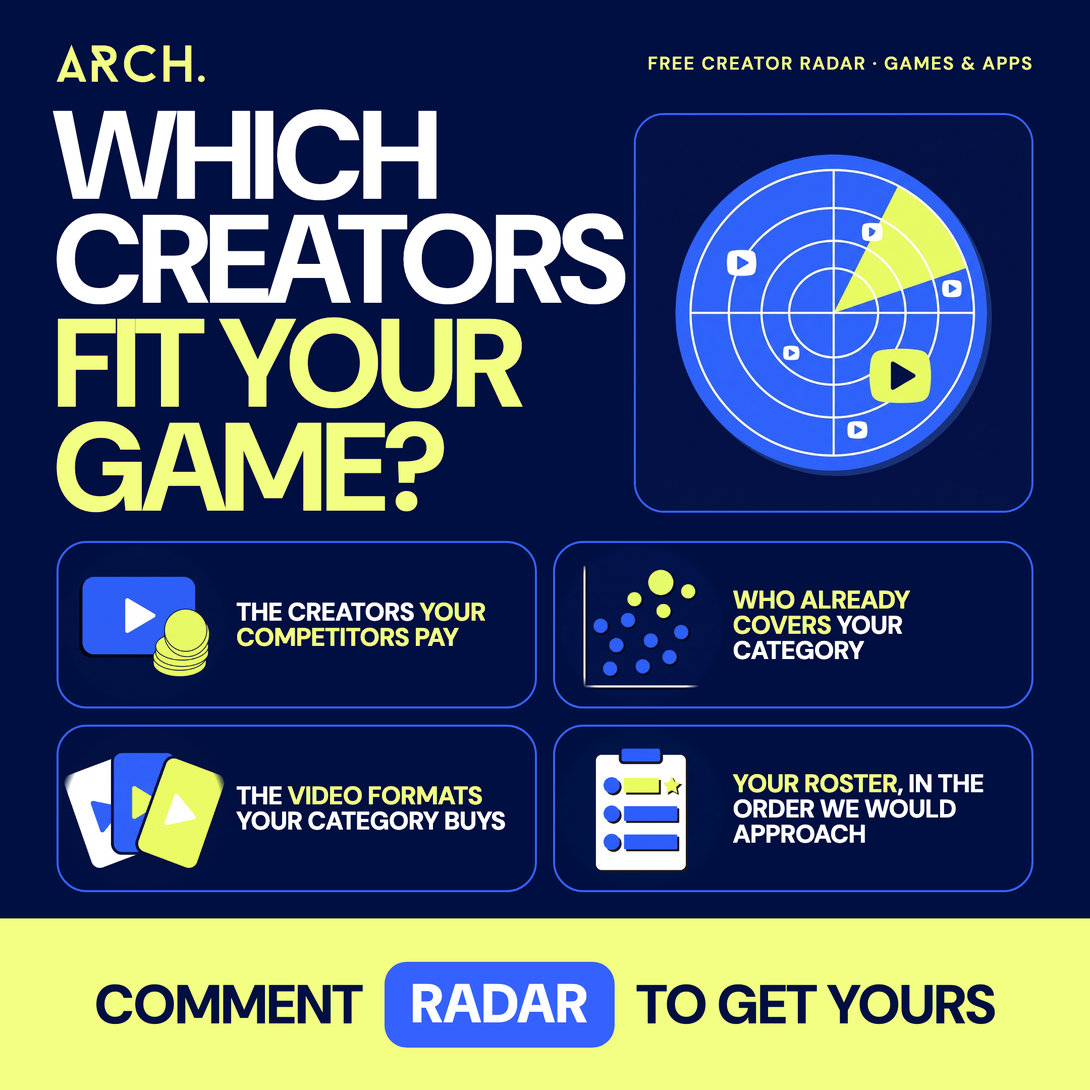
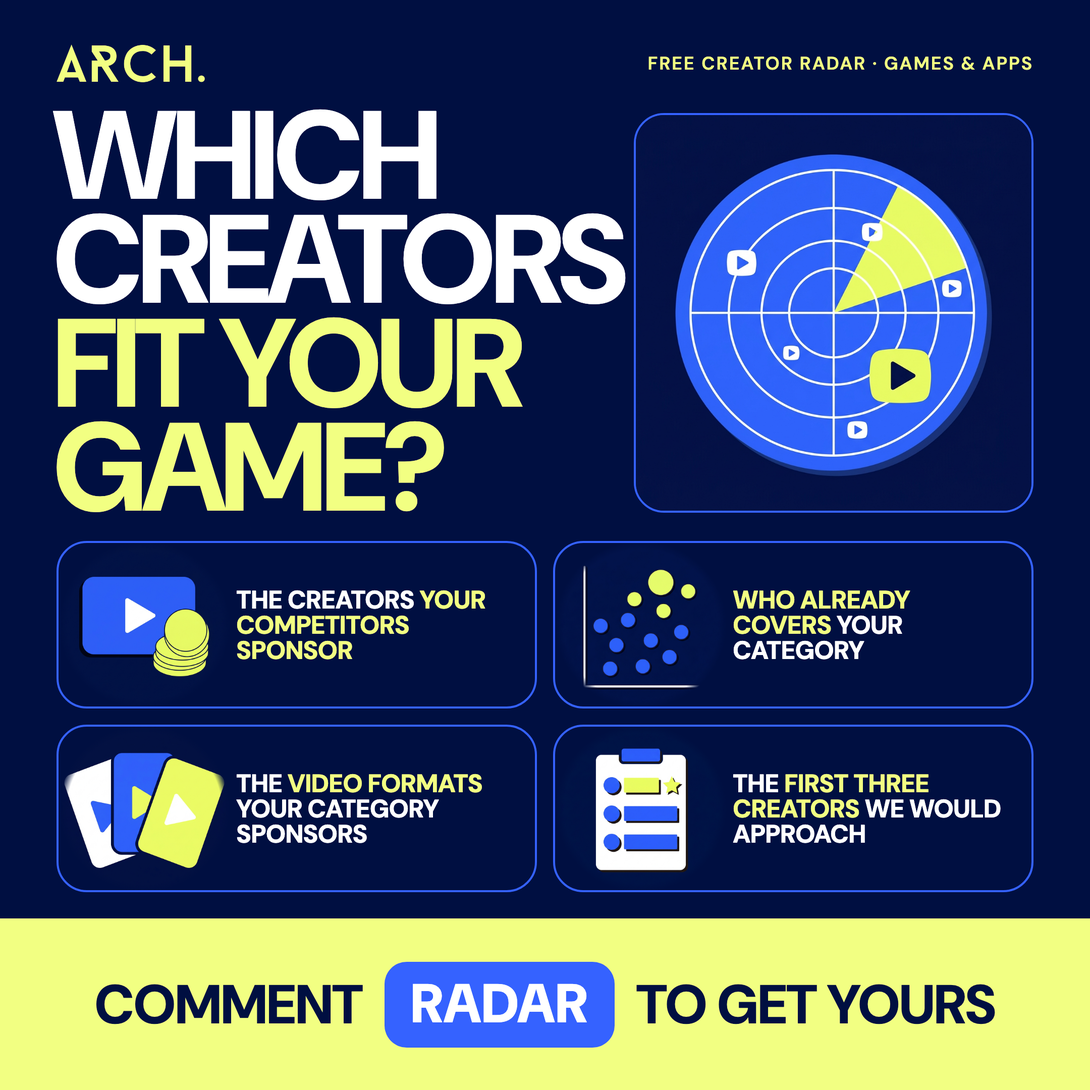
Creator Radar + Deal Check: match promises to what the reports deliver
Radar: 'sponsor' wording, disclosed-sponsorships-only note, sections match both report lanes, first three creators with the full roster on a call, sent by ARCH within about a week, no weekly number.
Deal Check: headline 'What does this fee have to earn?', attributed-installs framing, neutral default example, currency picker on the top check, Germany example, Gamesight link removed, phone-friendly anatomy list, header matches Radar. Covers re-rendered with the same claims.

Changed region(s): [[0.2171, 0.5273, 0.4653, 0.6204], [0.2171, 0.7134, 0.4653, 0.7755], [0.6514, 0.7134, 0.9306, 0.7755]]

diff --git a/creator-quote-check/index.html b/creator-quote-check/index.html
@@ -1,9 +1,9 @@
 <!doctype html>
-<html lang="en"><head><meta charset="utf-8"><meta name="viewport" content="width=device-width,initial-scale=1"><meta name="description" content="Check a creator fee or a planned budget against your target CPI. See the installs it has to bring, the most the booking can cost, and the questions to send back before you sign."><title>Creator Deal Check | ARCH.</title><meta property="og:title" content="Creator Deal Check: is this creator worth the fee? | ARCH."><meta property="og:description" content="A free fee check and quote worksheet for game and app teams with a UA budget."><meta property="og:type" content="website"><meta property="og:url" content="https://madebyarch.com/creator-quote-check/"><meta property="og:image" content="https://madebyarch.com/creator-quote-check/assets/cover-dealcheck-cpi.png"><link rel="stylesheet" href="style.css"></head>
+<html lang="en"><head><meta charset="utf-8"><meta name="viewport" content="width=device-width,initial-scale=1"><meta name="description" content="Check a creator fee or a planned budget against your target CPI. See the attributed installs it has to bring, the most you can pay and still hit your target, and the questions to send back before you sign."><title>Creator Deal Check | ARCH.</title><meta property="og:title" content="Creator Deal Check: what does this fee have to earn? | ARCH."><meta property="og:description" content="A free fee check and quote worksheet for game and app teams with a UA budget."><meta property="og:type" content="website"><meta property="og:url" content="https://madebyarch.com/creator-quote-check/"><meta property="og:image" content="https://madebyarch.com/creator-quote-check/assets/cover-dealcheck-cpi.png"><link rel="stylesheet" href="style.css"></head>
 <body><header class="mast"><a href="https://arch.agency/" aria-label="ARCH homepage"><img src="assets/arch-yellow.svg" width="110" height="30" alt="ARCH."></a><span>FOR GAME &amp; APP MARKETING TEAMS</span><a href="https://madebyarch.com/book/">Talk to ARCH ↗</a></header>
 <main>
-<section class="hero"><div><p class="eyebrow">BEFORE YOU BOOK THE CREATORS · FREE DEAL CHECK</p><h1>IS THIS<br>CREATOR<br><em>WORTH THE<br>FEE?</em></h1><p class="intro">Put in a creator fee, or the budget you have in mind, and your target CPI. See the installs it has to bring, and the most the booking can cost.</p><div class="hero-actions"><a class="button" href="#check">CHECK A FEE ↓</a><a class="secondary" href="#questions">12 QUESTIONS TO SEND BACK</a></div><ol class="contents" aria-label="What is on this page"><li><a href="#anatomy"><b>01</b> What a creator quote is made of</a></li><li><a href="#example"><b>02</b> One example, line by line</a></li><li><a href="#howto"><b>03</b> How to use the worksheet</a></li><li><a href="#worksheet"><b>04</b> The worksheet</a></li><li><a href="#questions"><b>05</b> Questions to send back</a></li><li><a href="#glossary"><b>06</b> Glossary</a></li></ol></div>
-<aside class="check" id="check" aria-labelledby="check-title"><p class="eyebrow" id="check-title">CREATOR DEAL CHECK</p><div class="check-fields"><label>Creator fee or budget<input id="chk-fee" type="number" min="0" max="1000000000" step="0.01" inputmode="decimal" value="5000"><small class="help">A quote you have, or what you plan to spend.</small></label><label>Your target CPI<input id="chk-cpi" type="number" min="0.01" max="1000000" step="0.01" inputmode="decimal" value="4"><small class="help">What one install is allowed to cost you.</small></label><label class="wide">Installs you expect from this creator <span class="opt">optional</span><input id="chk-installs" type="number" min="0" max="1000000000" step="1" inputmode="numeric" value="900"><small class="help">From your past campaigns or the supplier&#39;s evidence. Leave blank if you have none.</small></label></div><div class="check-result" id="chk-result" aria-live="polite"></div><button type="button" class="secondary" id="to-worksheet">Put the full quote through the worksheet ↓</button><small class="fine">Example numbers, replace them with yours. This works from your own target. It does not predict what a creator will deliver. Nothing you enter leaves this tab.</small></aside></section>
+<section class="hero"><div><p class="eyebrow">BEFORE YOU BOOK THE CREATORS · FREE DEAL CHECK</p><h1>WHAT DOES<br>THIS FEE<br><em>HAVE TO<br>EARN?</em></h1><p class="intro">Put in a creator fee, or the budget you have in mind, and your target CPI. See the attributed installs it has to bring, and the most you can pay and still hit your target.</p><div class="hero-actions"><a class="button" href="#check">CHECK A FEE ↓</a><a class="secondary" href="#questions">12 QUESTIONS TO SEND BACK</a></div><ol class="contents" aria-label="What is on this page"><li><a href="#anatomy"><b>01</b> What a creator quote is made of</a></li><li><a href="#example"><b>02</b> One example, line by line</a></li><li><a href="#howto"><b>03</b> How to use the worksheet</a></li><li><a href="#worksheet"><b>04</b> The worksheet</a></li><li><a href="#questions"><b>05</b> Questions to send back</a></li><li><a href="#glossary"><b>06</b> Glossary</a></li></ol></div>
+<aside class="check" id="check" aria-labelledby="check-title"><p class="eyebrow" id="check-title">CREATOR DEAL CHECK</p><div class="check-fields"><label>Creator fee or budget<input id="chk-fee" type="number" min="0" max="1000000000" step="0.01" inputmode="decimal" value="4000"><small class="help">A quote you have, or what you plan to spend.</small></label><label>Your target CPI<input id="chk-cpi" type="number" min="0.01" max="1000000" step="0.01" inputmode="decimal" value="4"><small class="help">What one install is allowed to cost you.</small></label><label>Installs you expect from this creator <span class="opt">optional</span><input id="chk-installs" type="number" min="0" max="1000000000" step="1" inputmode="numeric" value="1000"><small class="help">From your past campaigns or the supplier&#39;s evidence. Leave blank if you have none.</small></label><label>Currency<select id="chk-currency"><option value="EUR">EUR (€)</option><option value="USD">USD ($)</option><option value="GBP">GBP (£)</option></select></label></div><div class="check-result" id="chk-result" aria-live="polite"></div><button type="button" class="secondary" id="to-worksheet">Put the full quote through the worksheet ↓</button><small class="fine">Example numbers, replace them with yours. Many creator installs never get attributed: people watch the video, then find the game in the store themselves. Read the result as the attributed floor. It does not predict what a creator will deliver. Nothing you enter leaves this tab.</small></aside></section>
 
 <section id="anatomy" class="guide"><div class="section-head"><div><p class="eyebrow">01 · THE ANATOMY</p><h2>What a creator quote is made of</h2></div><p class="lede">The creator fee is the first number on the proposal. Four other lines decide what that number buys. A proposal can mention some of them and leave the rest for you to ask about.</p></div>
 <figure class="diagram"><svg viewBox="0 0 900 420" role="img" aria-labelledby="diag1-title"><title id="diag1-title">A creator proposal split into five parts: creator fee, paid-use rights, edited versions, other costs and terms</title>
@@ -29,7 +29,7 @@
 <text x="420" y="250" font-size="14" font-weight="600">Cutdowns and re-edits</text><text x="420" y="268" font-size="13" fill="#666">Vertical cuts, shorter versions, new hooks.</text>
 <text x="420" y="306" font-size="14" font-weight="600">Agency fee, production, tracking</text><text x="420" y="324" font-size="13" fill="#666">Anything else on the invoice.</text>
 <text x="420" y="352" font-size="14" font-weight="600">Term, platforms, territories, exclusivity</text><text x="420" y="370" font-size="13" fill="#666">Decide what the fee is actually worth.</text>
-</g></svg><figcaption>A proposal read as five lines. The highlighted one is the headline fee. The other four change what it buys.</figcaption></figure>
+</g></svg><ol class="diagram-list" aria-hidden="true"><li class="hl"><b>1 · Creator fee</b> The upload itself. What the creator makes and posts on their channel.</li><li><b>2 · Paid-use rights</b> Running the video in your ads. Often quoted separately, often missing.</li><li><b>3 · Edited versions</b> Cutdowns and re-edits. Vertical cuts, shorter versions, new hooks.</li><li><b>4 · Other costs</b> Agency fee, production, tracking. Anything else on the invoice.</li><li class="muted"><b>5 · Terms</b> Term, platforms, territories, exclusivity. Decide what the fee is actually worth.</li></ol><figcaption>A proposal read as five lines. The highlighted one is the headline fee. The other four change what it buys.</figcaption></figure>
 
 <div class="cards">
 <article class="card"><svg class="icon" viewBox="0 0 40 40" aria-hidden="true"><g fill="none" stroke="#000F41" stroke-width="1.5" stroke-linecap="round" stroke-linejoin="round"><rect x="7" y="10" width="26" height="20" rx="3"/><path d="M7 16h26"/><circle cx="16" cy="23" r="3" fill="#F2FF82"/><path d="M22 23h7"/></g></svg><h3>1 · Creator fee</h3><p>What the creator charges for making and posting the content on their own channel. One dedicated video, one integration, one short. It is the line every proposal shows.</p><p class="ask"><b>Ask:</b> exactly which uploads are included, on which channel, and how long the mention runs inside the video.</p></article>
@@ -72,7 +72,7 @@
 <div class="campaign"><label>Campaign name<input id="campaign-name" value="Example mobile game campaign" maxlength="160"><small class="help">Anything that identifies this comparison later.</small></label><label>Currency<select id="currency"><option value="EUR">EUR (€)</option><option value="USD">USD ($)</option><option value="GBP">GBP (£)</option></select><small class="help">Convert every proposal to one currency first.</small></label><label>Campaign objective<select id="objective"><option value="installs">App installs</option><option value="purchases">Purchases / subscriptions</option><option value="launch">Launch visibility / community</option></select><small class="help">Installs unlocks the target CPI check below.</small></label></div>
 <p class="hint">One quote is enough. Add a second one to compare, because two proposals rarely quote the same work. Use the same currency and tax basis throughout. A blank amount means unknown. Enter 0 only when no charge applies. Your entries stay in this tab and are never sent anywhere.</p>
 <div id="packages" class="packages"></div>
-<div class="optional"><div class="target"><label>Your target cost per install<input id="target-cpi" type="number" min="0.01" step="0.01" inputmode="decimal" placeholder="Enter your own target"></label><p>Known cost ÷ target CPI gives the installs required. This is a spending requirement based on your target. Actual delivery and payback need separate evidence.</p></div><p id="cpi-note"></p></div>
+<div class="optional"><div class="target"><label>Your target cost per install<input id="target-cpi" type="number" min="0.01" step="0.01" inputmode="decimal" placeholder="Enter your own target"></label><p>Known cost ÷ target CPI gives the installs required. This is a spending requirement based on your target. Installs without a tracked click are often missed, so agree how you will count them before the campaign. Actual delivery and payback need separate evidence.</p></div><p id="cpi-note"></p></div>
 <div class="section-head report-head"><div><p class="eyebrow">YOUR RESULT</p><h2>Costs and open questions</h2></div><div class="tools"><button type="button" class="button" id="print">Save as PDF / print</button><button type="button" class="secondary" id="csv">Download worksheet</button></div></div>
 <p id="form-warning" role="alert" hidden>Check the highlighted amounts. Use a number of 0 or above; the optional CPI must be greater than 0.</p><div id="report" aria-live="polite"></div><p id="export-status" role="status"></p>
 <label class="decision">Your decision and conditions for approval<textarea id="decision" rows="3" placeholder="Would you take this forward? What needs confirming first?" maxlength="4000"></textarea></label>
@@ -97,11 +97,11 @@
 <div><dt>Edited versions</dt><dd>Extra cuts from the same footage: vertical versions, shorter versions, versions with a different opening. Also called cutdowns or derivatives.</dd></div>
 <div><dt>Exclusivity</dt><dd>The creator agrees not to promote competing games or apps for a period. Category exclusivity is wider than named-competitor exclusivity, and priced accordingly.</dd></div>
 <div><dt>Deliverables</dt><dd>The list of things the creator will produce and post: one long-form video, two shorts, one story, and so on. The fee should map to this list exactly.</dd></div>
-<div><dt>CPI</dt><dd>Cost per install: spend divided by installs attributed to the campaign. Your target CPI turns a budget into the number of installs it has to bring.</dd></div>
+<div><dt>CPI</dt><dd>Cost per install: spend divided by installs attributed to the campaign. Your target CPI turns a budget into the number of installs it has to bring. Creator campaigns also bring installs nobody can attribute, from viewers who search the store later, so attributed CPI tends to understate what a creator brought.</dd></div>
 <div><dt>Attribution window</dt><dd>How long after seeing the content an install or purchase still counts for the campaign. Agree it before the campaign, or two reports will disagree afterwards.</dd></div>
 <div><dt>Approval rounds</dt><dd>How many times you can review the draft before it goes live, and by when. One round is common. Zero rounds is a risk worth a question.</dd></div>
 <div><dt>Seeding</dt><dd>Sending product, keys or credit to the creator so they can show the game or app. A cost on your side even when the creator fee is zero.</dd></div>
 </dl></section>
 
-<section class="notes"><details><summary>Sources and example assumptions</summary><p>All example prices and booking details are hypothetical. Both example packages assume one YouTube upload, three edited versions, and 30 days of YouTube ad use in the UK. They do not imply equal creators or results. Taxes and any other campaign costs must be entered consistently.</p><p><a href="https://support.google.com/google-ads/answer/15223349?hl=en" target="_blank" rel="noopener">Google Ads: creator partnerships and video use</a><br><a href="https://docs.gamesight.io/docs/creator-discoveries" target="_blank" rel="noopener">Gamesight: deliverable assumptions behind creator estimates</a></p></details><details><summary>About this worksheet</summary><p>“Download worksheet” saves a CSV file you can open in Excel or Google Sheets. “Save as PDF / print” includes every quote you entered and your decision. This page does not store or send your entries. It does not rank creators or estimate a fair market price.</p></details></section>
+<section class="notes"><details><summary>Sources and example assumptions</summary><p>All example prices and booking details are hypothetical. Both example packages assume one YouTube upload, three edited versions, and 30 days of YouTube ad use in Germany. They do not imply equal creators or results. Taxes and any other campaign costs must be entered consistently.</p><p><a href="https://support.google.com/google-ads/answer/15223349?hl=en" target="_blank" rel="noopener">Google Ads: creator partnerships and video use</a></p></details><details><summary>About this worksheet</summary><p>“Download worksheet” saves a CSV file you can open in Excel or Google Sheets. “Save as PDF / print” includes every quote you entered and your decision. This page does not store or send your entries. It does not rank creators or estimate a fair market price.</p></details></section>
 </main><footer><img src="assets/arch-yellow.svg" width="90" alt="ARCH."><span>Creator campaigns for games &amp; apps.</span></footer><section id="print-report" aria-hidden="true"></section><script src="app.js"></script></body></html>

diff --git a/creator-radar/index.html b/creator-radar/index.html
@@ -2,7 +2,7 @@
 <html lang="en"><head><meta charset="utf-8"><meta name="viewport" content="width=device-width,initial-scale=1">
 <title>Creator Radar | ARCH.</title>
 <meta name="description" content="Send us your game or app. ARCH runs its Creator Radar on your category and sends back an audit: who your competitors sponsor, who covers the category today, and the creators we would approach first.">
-<meta property="og:title" content="Creator Radar | ARCH."><meta property="og:description" content="See which creators your competitors are paying, and which ones fit your game or app."><meta property="og:type" content="website"><meta property="og:url" content="https://madebyarch.com/creator-radar/"><meta property="og:image" content="https://madebyarch.com/creator-radar/assets/cover-creator-radar.png"><meta name="twitter:card" content="summary_large_image">
+<meta property="og:title" content="Creator Radar | ARCH."><meta property="og:description" content="See which creators your competitors sponsor, and which ones fit your game or app."><meta property="og:type" content="website"><meta property="og:url" content="https://madebyarch.com/creator-radar/"><meta property="og:image" content="https://madebyarch.com/creator-radar/assets/cover-creator-radar.png"><meta name="twitter:card" content="summary_large_image">
 <link rel="canonical" href="https://madebyarch.com/creator-radar/"><link rel="icon" href="assets/arch-yellow.svg"><link rel="preload" href="assets/dm-sans.woff2" as="font" type="font/woff2" crossorigin>
 <link rel="stylesheet" href="style.css"></head>
 <body>
@@ -11,34 +11,34 @@
 <section class="hero">
 <div>
 <p class="eyebrow">FREE · CREATOR RADAR FOR YOUR GAME OR APP</p>
-<h1>SEE WHICH<br>CREATORS<br><em>YOUR COMPETITORS<br>ARE PAYING.</em></h1>
+<h1>SEE WHICH<br>CREATORS<br><em>YOUR COMPETITORS<br>SPONSOR.</em></h1>
 <p class="intro">Send us your game or app. We run our Creator Radar on your category and send back an audit built for your product: who your competitors sponsor, who already covers the category, and the creators we would approach first.</p>
-<ul class="ticks"><li>Built for one product, yours</li><li>Every number links to its video</li><li>Sent by email from Davorin Šmit</li></ul>
+<ul class="ticks"><li>Built for one product, yours</li><li>Every number links to its video</li><li>Sent by email from the ARCH team</li></ul>
 </div>
 <aside class="card form-card" id="request" aria-labelledby="form-title">
 <p class="eyebrow" id="form-title">RUN THE RADAR ON YOUR PRODUCT</p>
 <form id="audit-form" action="https://bjbvqvzbzczjbatgmccb.supabase.co/functions/v1/arch-audit-request" method="post" novalidate>
 <label for="f-url">Link to your game or app<input id="f-url" name="product_url" type="text" inputmode="url" autocomplete="url" maxlength="500" placeholder="App Store, Google Play, Steam or your site" required><small>The store page works best.</small></label>
 <label for="f-name"><span>Product name <i>optional</i></span><input id="f-name" name="product_name" type="text" maxlength="120" autocomplete="off"></label>
-<label for="f-comp"><span>Competitors you watch <i>optional</i></span><input id="f-comp" name="competitors" type="text" maxlength="300" autocomplete="off" placeholder="Two or three names"><small>We check what they bought from creators.</small></label>
+<label for="f-comp"><span>Competitors you watch <i>optional</i></span><input id="f-comp" name="competitors" type="text" maxlength="300" autocomplete="off" placeholder="Two or three names"><small>We check which creators they sponsored.</small></label>
 <label for="f-email">Work email<input id="f-email" name="email" type="email" inputmode="email" autocomplete="email" maxlength="254" placeholder="you@studio.com" required><small>The audit is sent here. One audit per company.</small></label>
 <div class="hp" aria-hidden="true"><label>Leave empty<input name="website" tabindex="-1" autocomplete="off"></label></div>
 <button type="submit" class="button">RUN MY CREATOR RADAR →</button>
 <p id="form-status" role="status" aria-live="polite"></p>
 </form>
-<div id="form-done" class="done" hidden tabindex="-1"><p class="done-big" id="done-title">Request received.</p><p id="done-text">We check that your product is one we can help with, then run the audit. It arrives by email from Davorin within two working days.</p></div>
-<p class="fine">We run 20 audits a week. We use your email to send the audit and to follow up on it once. No newsletter.</p>
+<div id="form-done" class="done" hidden tabindex="-1"><p class="done-big" id="done-title">Request received.</p><p id="done-text">We check that your product is one we can help with, then run the audit. It arrives by email from ARCH within a week.</p></div>
+<p class="fine">We run a limited number of audits each week. We use your email to send the audit and to follow up on it once. No newsletter.</p>
 </aside>
 </section>
 
 <section class="card white" id="inside">
 <div class="section-head"><div><p class="eyebrow">01 · WHAT YOU GET</p><h2>Five sections, one product</h2></div><p class="lede">Every Creator Radar audit follows the same five sections. The numbers inside come from your category and your competitors, read on the day we run it.</p></div>
 <ol class="parts">
-<li><b>01</b><h3>How much of the coverage is bought</h3><p>We sample the videos in your category and count the ones carrying a disclosed sponsorship. You see how active the paid side of your category is.</p></li>
-<li><b>02</b><h3>Who covers your category today</h3><p>Every channel we read, plotted by subscribers against the views a typical upload gets. The channels that out-reach their own subscriber count stand out.</p></li>
-<li><b>03</b><h3>Which competitors are buying</h3><p>Placements counted per competitor, each one linked to the video it came from. If a competitor bought eleven and you bought none, the page says so.</p></li>
-<li><b>04</b><h3>The formats they pay for</h3><p>Dedicated reviews, tutorials, roundups or integrated reads. You see which format your category buys most.</p></li>
-<li><b>05</b><h3>The roster</h3><p>The creators we would approach for your product, in order, with their recent uploads, typical views and whether a competitor has sponsored them.</p></li>
+<li><b>01</b><h3>How much of the coverage is sponsored</h3><p>We sample the recent videos about your game or category and count the ones carrying a disclosed sponsorship. You see how active the paid side of your category is.</p></li>
+<li><b>02</b><h3>Who covers your category today</h3><p>Every channel we read, plotted by subscribers against the views its uploads get. The channels that reach past their own subscriber count stand out.</p></li>
+<li><b>03</b><h3>Which competitors sponsor creators</h3><p>Disclosed placements counted per competitor, each one linked to the video it came from. Where few competitors disclose, this section shows where the attention in your category goes.</p></li>
+<li><b>04</b><h3>The formats that work</h3><p>Dedicated reviews, guides, roundups or integrated reads. You see which formats your category sponsors and which ones get watched.</p></li>
+<li><b>05</b><h3>Your first three creators</h3><p>The three creators we would approach first, with their recent uploads, views and any disclosed competitor sponsorship. We go through the full roster with you on a 30-minute call.</p></li>
 </ol>
 <figure class="sample" aria-labelledby="sample-cap">
 <svg viewBox="0 0 900 360" role="img" aria-label="Layout of the coverage chart: channels plotted by subscribers and typical views, with roster picks ringed in blue">
@@ -46,25 +46,26 @@
 <g stroke="#3562FF" stroke-opacity=".35" stroke-width="1"><path d="M90 300H860M90 230H860M90 160H860M90 90H860M90 40V300M280 40V300M470 40V300M660 40V300"/></g>
 <path d="M90 300L860 60" stroke="#F2FF82" stroke-width="1.5" stroke-dasharray="7 7"/>
 <g fill="#fff" fill-opacity=".55"><circle cx="190" cy="262" r="7"/><circle cx="252" cy="284" r="6"/><circle cx="340" cy="250" r="8"/><circle cx="420" cy="238" r="6"/><circle cx="505" cy="252" r="9"/><circle cx="588" cy="214" r="7"/><circle cx="690" cy="226" r="10"/><circle cx="770" cy="176" r="8"/><circle cx="308" cy="292" r="5"/><circle cx="640" cy="270" r="6"/></g>
-<g fill="#3562FF" stroke="#F2FF82" stroke-width="3"><circle cx="300" cy="176" r="11"/><circle cx="455" cy="118" r="13"/><circle cx="560" cy="130" r="10"/><circle cx="720" cy="84" r="12"/></g>
+<g fill="#3562FF" stroke="#F2FF82" stroke-width="3"><circle cx="455" cy="118" r="13"/><circle cx="560" cy="130" r="10"/><circle cx="720" cy="84" r="12"/></g>
 <g font-family="DM, Arial, sans-serif" font-size="13" fill="#fff"><text x="90" y="330">subscribers →</text><text x="473" y="108" font-weight="600" fill="#F2FF82">roster pick</text><text x="640" y="46" fill="#F2FF82">one typical view per subscriber</text><text x="700" y="252" fill-opacity=".7">held out</text></g>
 </svg>
-<figcaption id="sample-cap">The layout of section 02. Dots are channels. Ringed dots are the creators on your roster. The dots here are placeholders: your audit plots real channels.</figcaption>
+<figcaption id="sample-cap">The layout of section 02. Dots are channels. Ringed dots are your first three creators. The dots here are placeholders: your audit plots real channels.</figcaption>
 </figure>
 </section>
 
 <section class="card white" id="how">
-<div class="section-head"><div><p class="eyebrow">02 · HOW IT WORKS</p><h2>Three steps, two working days</h2></div><p class="lede">You fill in one form. The rest is on us.</p></div>
+<div class="section-head"><div><p class="eyebrow">02 · HOW IT WORKS</p><h2>Three steps, about a week</h2></div><p class="lede">You fill in one form. The rest is on us.</p></div>
 <ol class="steps">
 <li><span>1</span><h3>Send the link</h3><p>Your store page or site, and the competitors you watch if you have them in mind.</p></li>
 <li><span>2</span><h3>We check the fit</h3><p>We run audits for games and apps with a user acquisition budget. If yours is outside what we do, we tell you and stop there.</p></li>
-<li><span>3</span><h3>The audit lands in your inbox</h3><p>A private page built for your product, sent by Davorin. Read it alone or book 30 minutes to go through the roster together.</p></li>
+<li><span>3</span><h3>The audit lands in your inbox</h3><p>A private page built for your product, sent by ARCH. Read it alone, or book 30 minutes and we go through the full roster with you.</p></li>
 </ol>
 </section>
 
 <section class="card white" id="limits">
 <div class="section-head"><div><p class="eyebrow">03 · THE FINE PRINT</p><h2>What the audit leaves out</h2></div><p class="lede">It is a read of what is already public on YouTube. Every count is a floor, because a search only returns so many videos.</p></div>
 <ul class="limits">
+<li><b>Disclosed sponsorships only.</b> We count a deal when the video carries YouTube’s paid-promotion label or names the sponsor. Deals without a disclosure, creator codes and gifted keys do not show up, so the real number can be higher.</li>
 <li><b>No forecasts.</b> The audit shows what creators already did. It does not predict installs or revenue.</li>
 <li><b>No rate cards.</b> Creator prices are not public, so none are printed.</li>
 <li><b>No audience geography.</b> YouTube does not publish it per channel. We ask creators for it when a booking gets serious.</li>
@@ -73,7 +74,7 @@
 </ul>
 </section>
 
-<section class="consult"><div><p class="eyebrow">ALREADY HAVE A CREATOR QUOTE?</p><h2>Check the fee against your target CPI.</h2><p>The Creator Deal Check shows the installs a fee has to bring and the questions to send back before you sign.</p></div><a class="button light" href="https://madebyarch.com/creator-quote-check/">OPEN THE DEAL CHECK ↗</a></section>
+<section class="consult"><div><p class="eyebrow">ALREADY HAVE A CREATOR QUOTE?</p><h2>Check the fee against your target CPI.</h2><p>The Creator Deal Check shows the attributed installs a fee has to bring at your target CPI, and the questions to send back before you sign.</p></div><a class="button light" href="https://madebyarch.com/creator-quote-check/">OPEN THE DEAL CHECK ↗</a></section>
 </main>
 <footer><img src="assets/arch-yellow.svg" width="90" height="24" alt="ARCH."><p>ARCH is a creator marketing agency for games and apps. <a href="https://arch.agency/">arch.agency</a></p><p class="small">Your request is stored by ARCH to run and send the audit. Questions: <a href="mailto:davorinsmit@arch.agency">davorinsmit@arch.agency</a></p></footer>
 <script src="app.js" defer></script>

diff --git a/creator-quote-check/app.js b/creator-quote-check/app.js
@@ -6,7 +6,7 @@ const amount = (p,k,title,value='',help='') => `<label>${title}<input id="${p}-$
 function packageForm(p,name){return `<fieldset><legend>${name}</legend><div class="field-grid">${field(p,'name','Booking name',name,true,'The creator, agency or package name as it appears on the proposal.')}${field(p,'deliverables','Creator uploads / content','',true,'What they will post: one dedicated video, one integration, two shorts.')}${amount(p,'fee','Quoted fee','','The headline number on the proposal, before tax.')}${amount(p,'other','Other known costs','','Agency fee, production, tracking, seeding. Blank if not listed.')}</div>${['rights','edits'].map(k=>`<div class="cost-group"><div><label>${k==='rights'?'Paid-use rights':'Edited versions'}<select id="${p}-${k}-status"><option value="unknown">Unconfirmed</option><option value="included">Included in quoted fee</option><option value="extra">Additional charge</option><option value="unused">Not required</option></select></label><div class="conditional" id="${p}-${k}-amount-wrap" hidden>${amount(p,k+'-cost','Additional cost')}</div><small class="help">${k==='rights'?'Running the video as your own ad. Proposals often list this as “usage” or “whitelisting”, or leave it out.':'Cutdowns and re-edits from the same shoot. Some creators include a few, some charge per version.'}</small></div></div>`).join('')}<details class="scope"><summary>Audience, usage terms and release plan</summary><p class="scope-help">Copy what the proposal states. Leave a field blank when it is not there; each blank becomes a question in your comparison.</p><div class="field-grid">${field(p,'markets','Audience markets / evidence','',true,'Share of the audience in your target countries, and what backs it.')}${field(p,'views','Estimated views / evidence','',true,'Supplier estimate, and what it is based on: recent uploads, a screenshot, a platform report.')}${field(p,'term','Paid-use term','','30 days, 90 days, 12 months.')}${field(p,'platforms','Paid-use platforms','','YouTube ads, Meta, TikTok.')}${field(p,'territories','Usage territories','','One market, a region, worldwide.')}${field(p,'permissions','Editing permissions','','What you may change, and who approves the final cut.')}${field(p,'exclusivity','Exclusivity terms','',true,'Against similar games or apps, for how long.')}${field(p,'timing','Release dates / approval deadline','',true,'Draft date, your feedback window, final upload date.')}${field(p,'measurement','Success measure / reporting date','',true,'Which outcome will be reported, under what attribution rules, and when.')}</div></details></fieldset>`}
 $('packages').innerHTML=packageForm('a','Booking A')+'<details id="b-wrap" class="second"><summary>Add a second quote to compare</summary>'+packageForm('b','Booking B')+'</details>';
 const keys=['name','deliverables','fee','other','rights-status','rights-cost','edits-status','edits-cost','markets','views','term','platforms','territories','permissions','exclusivity','timing','measurement'];
-const sample={a:{name:'Booking A',deliverables:'One YouTube upload',fee:'4000',other:'0','rights-status':'extra','rights-cost':'1500','edits-status':'extra','edits-cost':'750',markets:'UK audience share: evidence requested',views:'Supplier estimate: evidence requested',term:'30 days',platforms:'YouTube ads',territories:'UK',permissions:'Three edited versions; final edits approved by creator',exclusivity:'Unconfirmed',timing:'Upload date and review deadline to agree',measurement:'App installs; attribution and report date to agree'},b:{name:'Booking B',deliverables:'One YouTube upload',fee:'6000',other:'0','rights-status':'included','rights-cost':'','edits-status':'included','edits-cost':'',markets:'UK audience share: evidence requested',views:'Supplier estimate: evidence requested',term:'30 days',platforms:'YouTube ads',territories:'UK',permissions:'Three edited versions; final edits approved by creator',exclusivity:'Unconfirmed',timing:'Upload date and review deadline to agree',measurement:'App installs; attribution and report date to agree'}};
+const sample={a:{name:'Booking A',deliverables:'One YouTube upload',fee:'4000',other:'0','rights-status':'extra','rights-cost':'1500','edits-status':'extra','edits-cost':'750',markets:'Germany audience share: evidence requested',views:'Supplier estimate: evidence requested',term:'30 days',platforms:'YouTube ads',territories:'Germany',permissions:'Three edited versions; final edits approved by creator',exclusivity:'Unconfirmed',timing:'Upload date and review deadline to agree',measurement:'App installs; attribution and report date to agree'},b:{name:'Booking B',deliverables:'One YouTube upload',fee:'6000',other:'0','rights-status':'included','rights-cost':'','edits-status':'included','edits-cost':'',markets:'Germany audience share: evidence requested',views:'Supplier estimate: evidence requested',term:'30 days',platforms:'YouTube ads',territories:'Germany',permissions:'Three edited versions; final edits approved by creator',exclusivity:'Unconfirmed',timing:'Upload date and review deadline to agree',measurement:'App installs; attribution and report date to agree'}};
 function hasData(p){return keys.some(k=>{const v=$(`${p}-${k}`).value.trim();if(k==='name')return false;if(k.endsWith('-status'))return v!=='unknown';return v!==''})}
 let exampleMode=true;
 let containsExample=true;
@@ -27,7 +27,7 @@ function update(){const rows=all();const isInstalls=$('objective').value==='inst
  $('mode-note').textContent=containsExample?'This worksheet started with hypothetical example values. Confirm or replace every entry before using it for a real booking.':'Your worksheet. Missing amounts and terms remain open questions.';
  const hasB=hasData('b');$('report').innerHTML='<div class="report-grid'+(hasB?'':' single')+'">'+rows.map((r,i)=>(i===1&&!hasB)?'':`<article class="report-card"><h3>${escapeHtml(r.data.name||`Booking ${i?'B':'A'}`)}</h3><div class="total">${r.invalid?'Check amounts':money(r.total)}</div><p class="status">${r.unknown.length?'KNOWN COST SO FAR · INCOMPLETE':'TOTAL ENTERED COST'}</p><p>${escapeHtml(r.data.deliverables||'Content deliverables need confirming.')}</p>${isInstalls&&cpi.value>0&&!cpiInvalid&&!r.invalid?`<p><strong>${Math.ceil(Math.round(r.total*100)/Math.round(cpi.value*100)).toLocaleString('en-GB')} installs required${r.unknown.length?' at this known cost':''}</strong><br>${money(r.total)} ÷ ${money(cpi.value)} target CPI, rounded up.${r.unknown.length?' Missing charges would raise this requirement.':''}</p>`:''}<h4>${r.questions.length?'Questions before booking':'All worksheet fields are filled'}</h4>${r.questions.length?'<ul>'+r.questions.map(q=>'<li>'+escapeHtml(q)+'</li>').join('')+'</ul>':'<p>Check the supplied evidence and confirm that the terms meet your campaign needs.</p>'}${r.questions.length?`<button type="button" class="secondary copy" data-copy="${i}">Copy these questions</button>`:''}</article>`).join('')+'</div>';
  return {rows,invalid};}
-function load(blank){for(const p of ['a','b'])for(const k of keys)$(`${p}-${k}`).value=blank?(k.endsWith('-status')?'unknown':k==='name'?`Booking ${p.toUpperCase()}`:''):sample[p][k]||'';$('campaign-name').value=blank?'':'Example mobile game campaign';$('decision').value='';$('target-cpi').value='';$('currency').value='EUR';$('objective').value='installs';exampleMode=!blank;containsExample=!blank;$('b-wrap').open=!blank;$('export-status').textContent='';update();}
+function load(blank){for(const p of ['a','b'])for(const k of keys)$(`${p}-${k}`).value=blank?(k.endsWith('-status')?'unknown':k==='name'?`Booking ${p.toUpperCase()}`:''):sample[p][k]||'';$('campaign-name').value=blank?'':'Example mobile game campaign';$('decision').value='';$('target-cpi').value='';$('currency').value='EUR';if($('chk-currency'))$('chk-currency').value='EUR';$('objective').value='installs';exampleMode=!blank;containsExample=!blank;$('b-wrap').open=!blank;$('export-status').textContent='';update();}
 $('load-example').addEventListener('click',()=>{if(!exampleMode&&!confirm('Replace your current entries with the example? Download your worksheet first if you want to keep them.'))return;load(false)});
 $('start-blank').addEventListener('click',()=>{if(!exampleMode&&!confirm('Clear your current entries? Download your worksheet first if you want to keep them.'))return;load(true);$('campaign-name').focus()});
 document.querySelectorAll('#worksheet input,#worksheet select,#worksheet textarea').forEach(el=>{el.addEventListener('input',()=>{exampleMode=false;update()});el.addEventListener('change',()=>{exampleMode=false;update()})});
@@ -53,9 +53,9 @@ function check(){const fee=chkVal('chk-fee',0),cpi=chkVal('chk-cpi',0.01),exp=ch
  if([fee,cpi,exp].some(v=>Number.isNaN(v))){out.innerHTML='<p class="chk-note">Check the highlighted amounts. Use 0 or above, and a target CPI above 0.</p>';return}
  if(fee===null||cpi===null){out.innerHTML='<p class="chk-note">Enter a fee or budget and your target CPI.</p>';return}
  const need=Math.ceil(Math.round(fee*100)/Math.round(cpi*100));
- let html=`<div class="chk-big">${need.toLocaleString('en-GB')}</div><p class="chk-label">INSTALLS THIS FEE HAS TO BRING</p><p class="chk-sub">${moneyShort(fee)} ÷ ${moneyShort(cpi)} target CPI, rounded up.</p>`;
- if(exp!==null){const ceiling=Math.round(exp*cpi*100)/100;const gap=Math.round((fee-ceiling)*100)/100;html+=`<div class="chk-second"><p class="chk-label">MOST THIS BOOKING CAN COST</p><div class="chk-mid">${moneyShort(ceiling)}</div><p class="chk-sub">${exp.toLocaleString('en-GB')} expected installs × ${moneyShort(cpi)}. ${gap>0?`The quote is ${moneyShort(gap)} above that.`:gap<0?`The quote is ${moneyShort(-gap)} inside that.`:'The quote matches it.'}</p></div>`}
+ let html=`<div class="chk-big">${need.toLocaleString('en-GB')}</div><p class="chk-label">ATTRIBUTED INSTALLS THIS FEE HAS TO BRING</p><p class="chk-sub">${moneyShort(fee)} ÷ ${moneyShort(cpi)} target CPI, rounded up.</p>`;
+ if(exp!==null){const ceiling=Math.round(exp*cpi*100)/100;const gap=Math.round((fee-ceiling)*100)/100;html+=`<div class="chk-second"><p class="chk-label">MOST YOU CAN PAY AT YOUR TARGET CPI</p><div class="chk-mid">${moneyShort(ceiling)}</div><p class="chk-sub">${exp.toLocaleString('en-GB')} expected installs × ${moneyShort(cpi)}. ${gap>0?`The quote is ${moneyShort(gap)} above that.`:gap<0?`The quote is ${moneyShort(-gap)} inside that.`:'The quote matches it.'}</p></div>`}
  out.innerHTML=html}
-['chk-fee','chk-cpi','chk-installs'].forEach(id=>$(id).addEventListener('input',check));$('currency').addEventListener('change',check);
+['chk-fee','chk-cpi','chk-installs'].forEach(id=>$(id).addEventListener('input',check));$('currency').addEventListener('change',()=>{$('chk-currency').value=$('currency').value;check()});$('chk-currency').addEventListener('change',()=>{$('currency').value=$('chk-currency').value;update();check()});
 $('to-worksheet').addEventListener('click',()=>{if(!exampleMode&&!confirm('Clear your current worksheet entries and start from this fee? Download your worksheet first if you want to keep them.'))return;const fee=$('chk-fee').value,cpi=$('chk-cpi').value;load(true);$('a-fee').value=fee;$('target-cpi').value=cpi;exampleMode=false;update();$('worksheet').scrollIntoView({behavior:'smooth'})});
 check();

diff --git a/creator-quote-check/style.css b/creator-quote-check/style.css
@@ -218,3 +218,14 @@ footer{border-top:0;color:#fff;max-width:1240px;margin:0 auto;padding:18px 48px 
 .guide,.workspace{border-radius:22px;padding:28px 20px 34px;margin-bottom:12px}.notes{border-radius:22px;padding:10px 20px 16px;margin-bottom:12px}
 .second{padding:0 20px}.consult{padding:24px 20px}footer{padding:14px 20px 30px}}
 @media print{body{background:#fff}}
+
+/* 2026-10-07: anatomy diagram as a list on phones; header matches Creator Radar */
+.diagram-list{display:none;list-style:none;margin:0;padding:0}
+.diagram-list li{border:1.5px solid var(--navy);border-radius:10px;padding:12px 14px;margin:0 0 10px;font-size:14px;line-height:1.45;color:var(--gray)}
+.diagram-list li b{display:block;color:var(--navy);font-size:14px;letter-spacing:.02em;text-transform:uppercase}
+.diagram-list li.hl{background:#F2FF82}.diagram-list li.hl{color:var(--navy)}
+.diagram-list li.muted{background:#EDEDED}
+@media(max-width:760px){.diagram{overflow-x:visible}.diagram svg{display:none}.diagram-list{display:block}}
+.mast{justify-content:space-between}
+.mast span{flex:0 1 auto;letter-spacing:.08em;text-align:center}
+.mast>a:last-child{text-decoration:none;border:1px solid rgba(255,255,255,.4);border-radius:40px;padding:9px 16px;min-height:0;font-size:12px;font-weight:600;letter-spacing:.04em}

diff --git a/creator-radar/app.js b/creator-radar/app.js
@@ -15,7 +15,7 @@ form.addEventListener('submit',async e=>{
     const j=await r.json().catch(()=>({}));
     if(!r.ok||!j.received){if(j.code==='work_email'||j.code==='email')mark('f-email',true);if(j.code==='product_url')mark('f-url',true);throw new Error(MSG[j.code]||'')}
     if(j.already){document.getElementById('done-title').textContent='We already have your company.';document.getElementById('done-text').textContent='Someone at your company asked for an audit. We run one per company, and it goes to the first address that asked.'}
-    else if(j.waitlist){document.getElementById('done-title').textContent='You are on next week’s list.';document.getElementById('done-text').textContent='This week’s 20 audits are taken. Yours runs next week and arrives by email from Davorin.'}
+    else if(j.waitlist){document.getElementById('done-title').textContent='You are on next week’s list.';document.getElementById('done-text').textContent='This week’s audits are taken. Yours runs next week and arrives by email from ARCH.'}
     form.hidden=true;done.hidden=false;done.focus();
   }catch(err){statusEl.textContent=err.message||'We could not save your request. Please try again.'}
   finally{btn.disabled=false;btn.textContent='RUN MY CREATOR RADAR →'}
